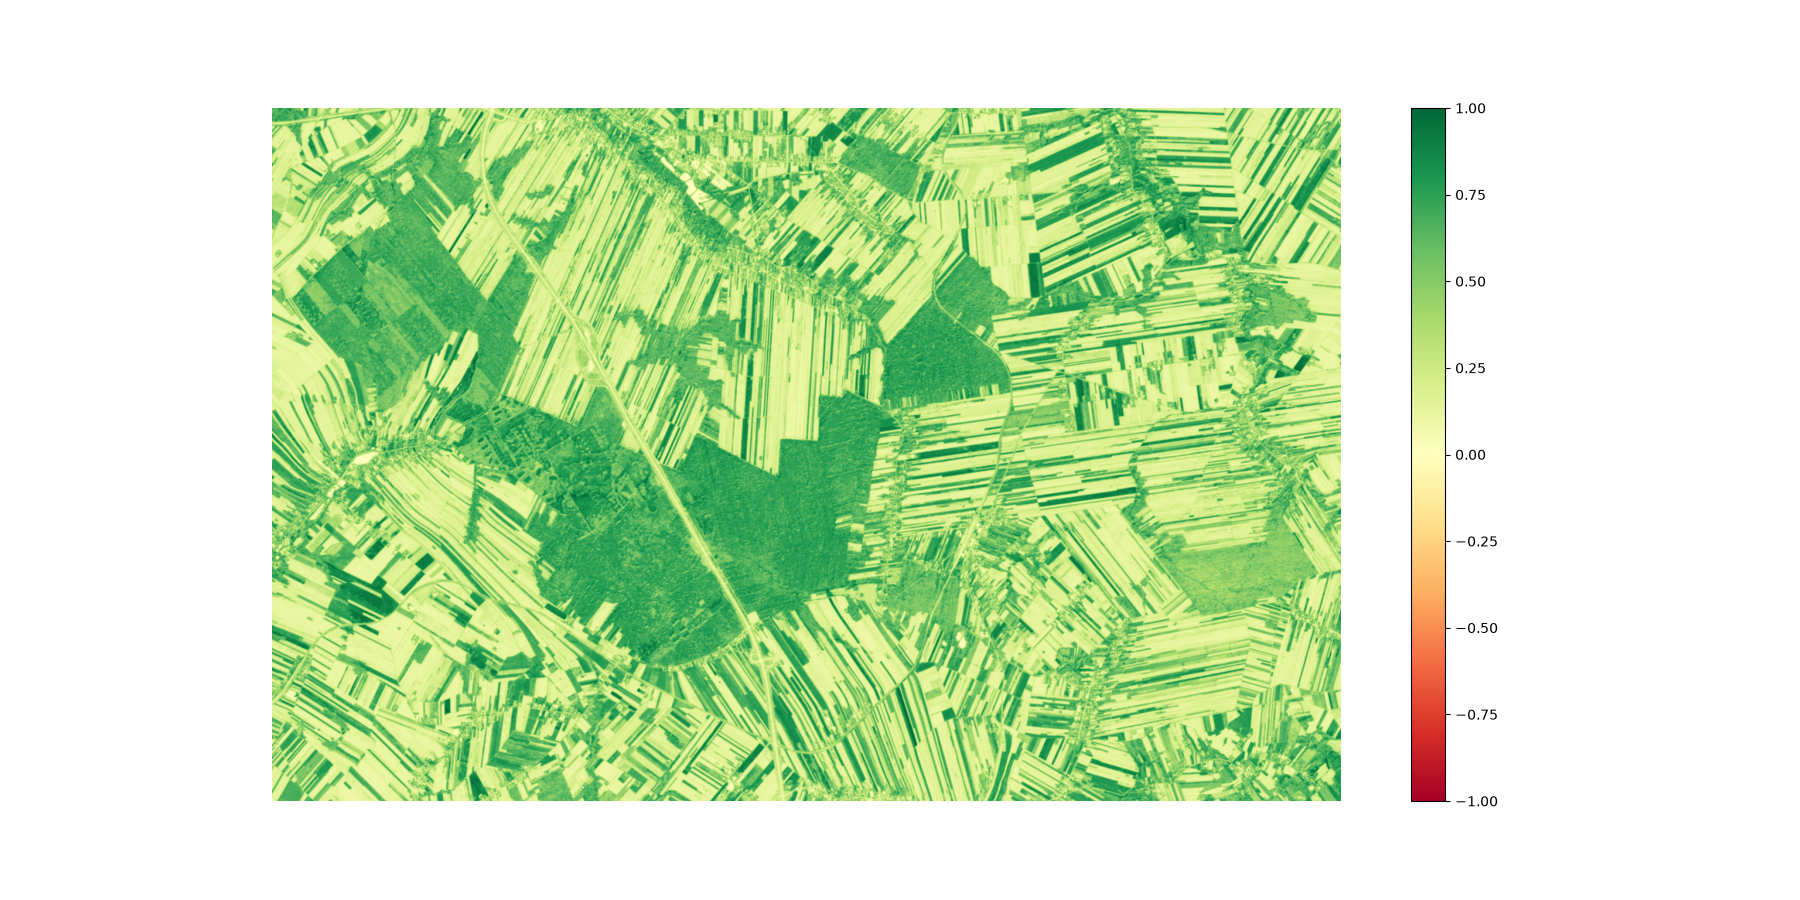
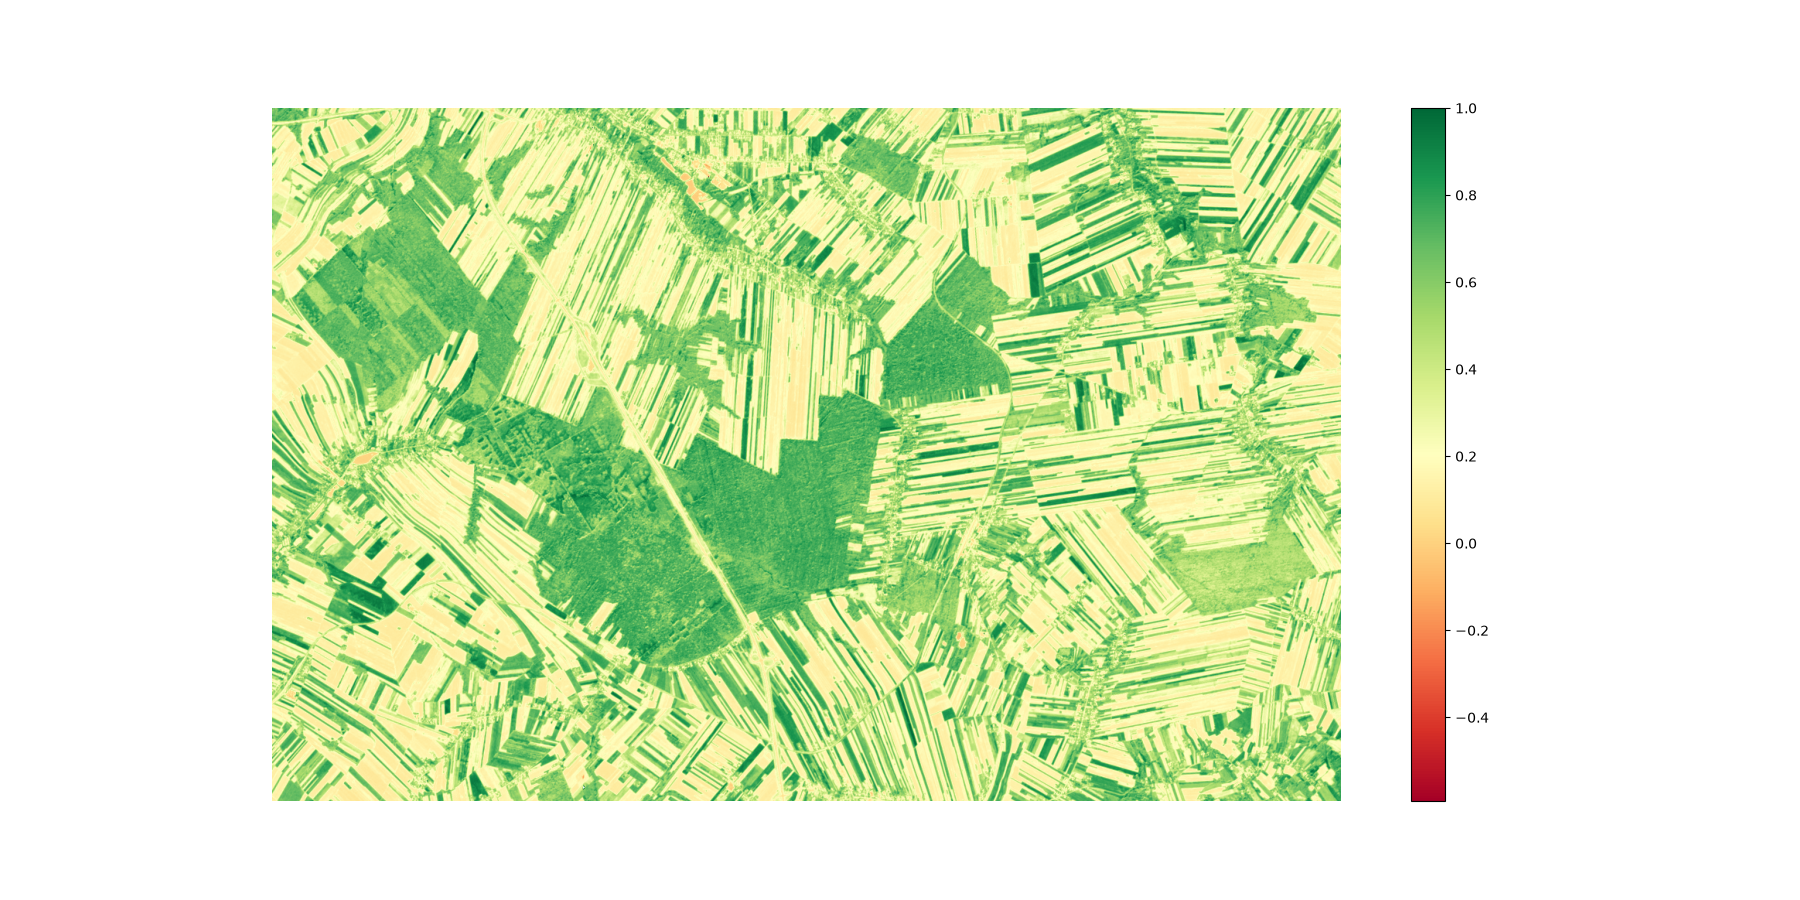
Add EVI description

diff --git a/README.md b/README.md
@@ -183,7 +183,7 @@ $$NDVI = \frac{NIR - RED}{NIR + RED}$$
 RED - wartości odbitego promieniowania w paśmie czerwonym (B04)</i></p>
 
 **Charakterystyka**
-- znormalizowany wskaźnik wegetacji używany w teledetekcji do oceny kondycji roślinności
+- znormalizowany wskaźnik wegetacji używany w teledetekcji do ogólnej oceny kondycji roślinności
 - mierzy różnicę między odbiciem w bliskiej podczerwieni (NIR), silnie odbijanym przez zdrowe liście, a czerwienią (RED), pochłanianą przez chlorofil
 
 **Interpretacja wartości NDVI**
@@ -192,8 +192,44 @@ RED - wartości odbitego promieniowania w paśmie czerwonym (B04)</i></p>
 - 0.2 – 0.5 - rzadka roślinność, wczesna faza rozwoju rolin, krzewy
 - 0.6 – 1.0 - zdrowa, gęsta roślinność, wysoka aktywność fotosyntetyczna
 
+Dense, healthy vegetation: 0.4 to 0.9
+Moderate vegetation: 0.2 to 0.4
+Sparse vegetation: 0.1 to 0.2
+Bare soil: < 0.1
+Water: < 0
+
 **Zastosowanie**
 - rolnictwo precyzyjne (monitoring plonów, nawadnianie)
 - leśnictwo
 - analiza środowiskowa
 
+### Enhanced Vegetation Index (EVI)
+
+<br>
+<br>
+<p align="center">
+  <img src="docs\evi.png"><br>
+</p>
+<br>
+
+$$EVI = 2.5\frac{NIR - RED}{NIR + 6RED - 7.5BLUE + 1}$$
+
+<p style="font-size: 0.9em;" align="center"><i>NIR - wartości odbitego promieniowania w bliskiej podczerwieni (B08)<br>
+RED - wartości odbitego promieniowania w paśmie czerwonym (B04) </br>
+BLUE - wartość odbitego promieniowania w paśmie niebieskim (B02)</i></p>
+
+**Charakterystyka**
+- lepiej sprawdza się na obszarach, na których NDVI może ulegać nadmiernemu nasyceniu
+- w porównaniu z NDVI daje dokładniejsze wyniki na obszarach o gęstej pokrywie roślinnej, na których wykazuje większą czułość na zmiany
+- uwzględnienie pasma niebieskiego pozwala skorygować wpływ sygnału pochodzącego z gleby oraz ograniczyć wpływ atmosfery
+
+**Interpretacja wartości EVI**
+- < 0 (wartości ujemne) – woda, chmury, śnieg
+- 0–0.2 – gleba, skały, beton
+- 0.2–0.5 – rzadka roślinność, wczesna faza rozwoju roślin, krzewy
+- 0.6–1.0 – zdrowa, gęsta roślinność, wysoka aktywność fotosyntetyczna
+
+**Zastosowanie**
+- monitoring lasów deszczowych
+- obszary o gęstej roślinności
+- badanie struktury koron drzew
